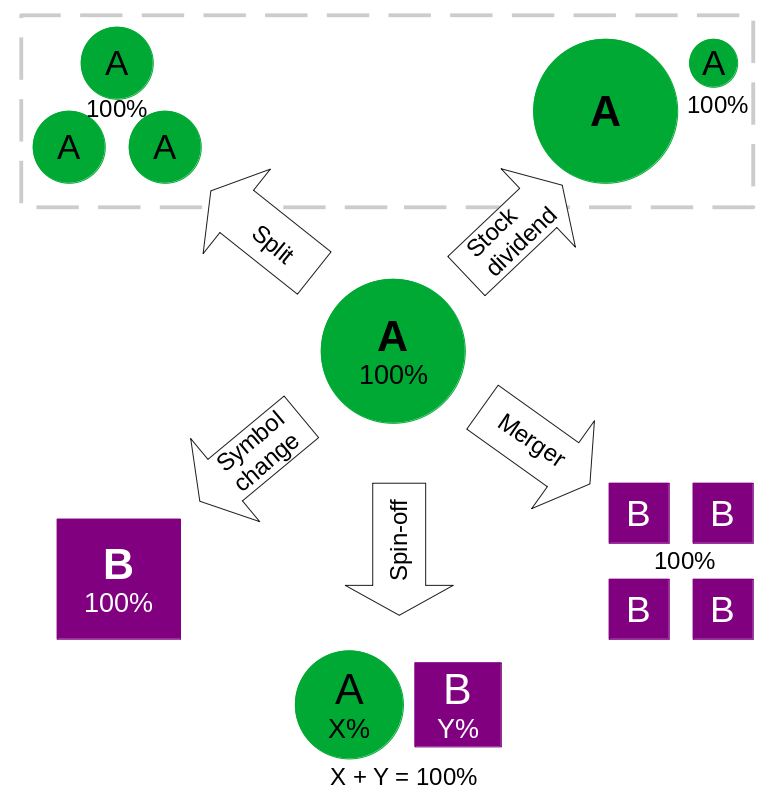
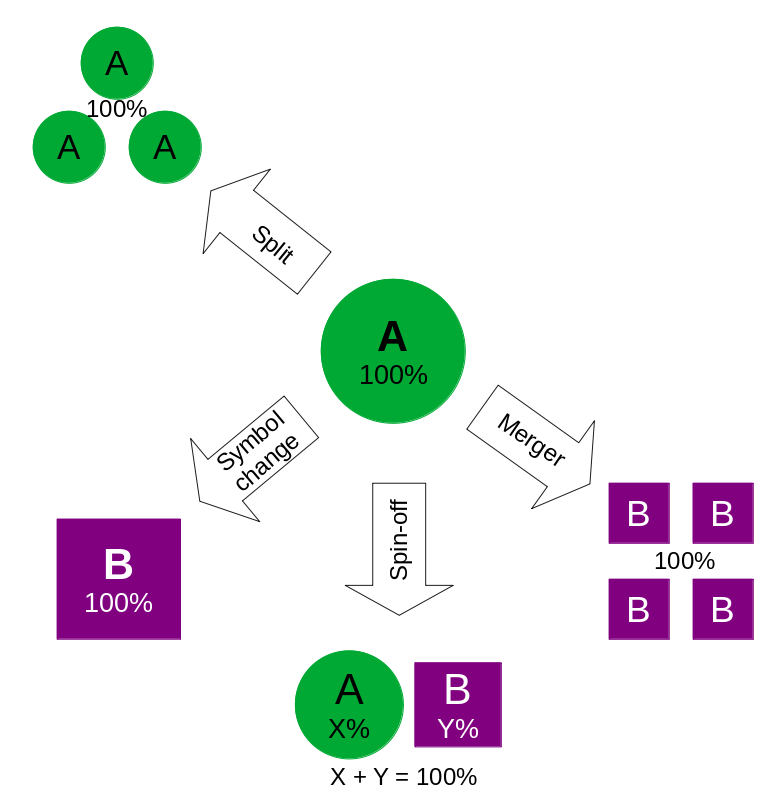
Text updated about corporate actions processing rules

diff --git a/docs/ru-tax-3ndfl/corporate_actions.md b/docs/ru-tax-3ndfl/corporate_actions.md
@@ -6,14 +6,19 @@
 
 При расчёте сумм доходов и расходов при корпоративных действиях для российского налогового отчёта я руководствовался следующим:  
 
-**1. Split, Symbol Change и Stock Dividend**  
-   п.13 ст. 214.1 НК РФ:  
+**1. Split, Symbol Change**  
+   п. 13 ст. 214.1 НК РФ:  
    *В случае, если организацией-эмитентом был осуществлен обмен (конвертация) акций, при реализации акций, полученных налогоплательщиком в результате обмена (конвертации),
    в качестве документально подтвержденных расходов налогоплательщика признаются расходы по приобретению акций, которыми владел налогоплательщик до их обмена (конвертации).*  
    Соотвественно 100% стоимости старых акций принимается в качестве суммарной стоимости акций после корпоративного действия.  
    
-**2. Merger**  
-   п.13 ст. 214.1 НК РФ:  
+**2. Stock Dividend**  
+   п. 1 ст. 43 НК РФ:
+   *К дивидендам также относятся любые доходы, получаемые из источников за пределами Российской Федерации, относящиеся к дивидендам в соответствии с законодательствами иностранных государств.*
+   Поэтому Stock Dividend рассчитывается по такому же алгоритму, как обычный дивиденд. Стоимость акции принимается равной цене закрытия в день выплаты дивиденда.
+  
+**3. Merger**  
+   п. 13 ст. 214.1 НК РФ:  
    *При реализации акций (долей, паев), полученных налогоплательщиком при реорганизации организаций, расходами на их приобретение признается стоимость, 
    определяемая в соответствии с пунктами 4 - 6 статьи 277 настоящего Кодекса*  
    п.4 ст. 277 НК РФ:  
@@ -22,11 +27,11 @@
    признается равной стоимости конвертированных акций реорганизуемой организации по данным налогового учета акционера на дату завершения реорганизации*  
    Соответственно стоимость новых акций компании B принимается равной стоимости исходных акций компании A.
 
-**3. Spin-Off**  
-   п.13 ст. 214.1 НК РФ:  
+**4. Spin-Off**  
+   п. 13 ст. 214.1 НК РФ:  
    *При реализации акций (долей, паев), полученных налогоплательщиком при реорганизации организаций, расходами на их приобретение признается стоимость, 
    определяемая в соответствии с пунктами 4 - 6 статьи 277 настоящего Кодекса*  
-   п.5 ст. 277 НК РФ:  
+   п. 5 ст. 277 НК РФ:  
    *В случае реорганизации в форме выделения, разделения, предусматривающей конвертацию или распределение акций вновь создаваемых организаций среди акционеров реорганизуемой организации, 
    совокупная стоимость полученных акционером в результате реорганизации акций каждой из созданных организаций и реорганизованной организации признается равной стоимости принадлежавших акционеру 
    акций реорганизуемой организации, определяемой по данным налогового учета акционера.  
